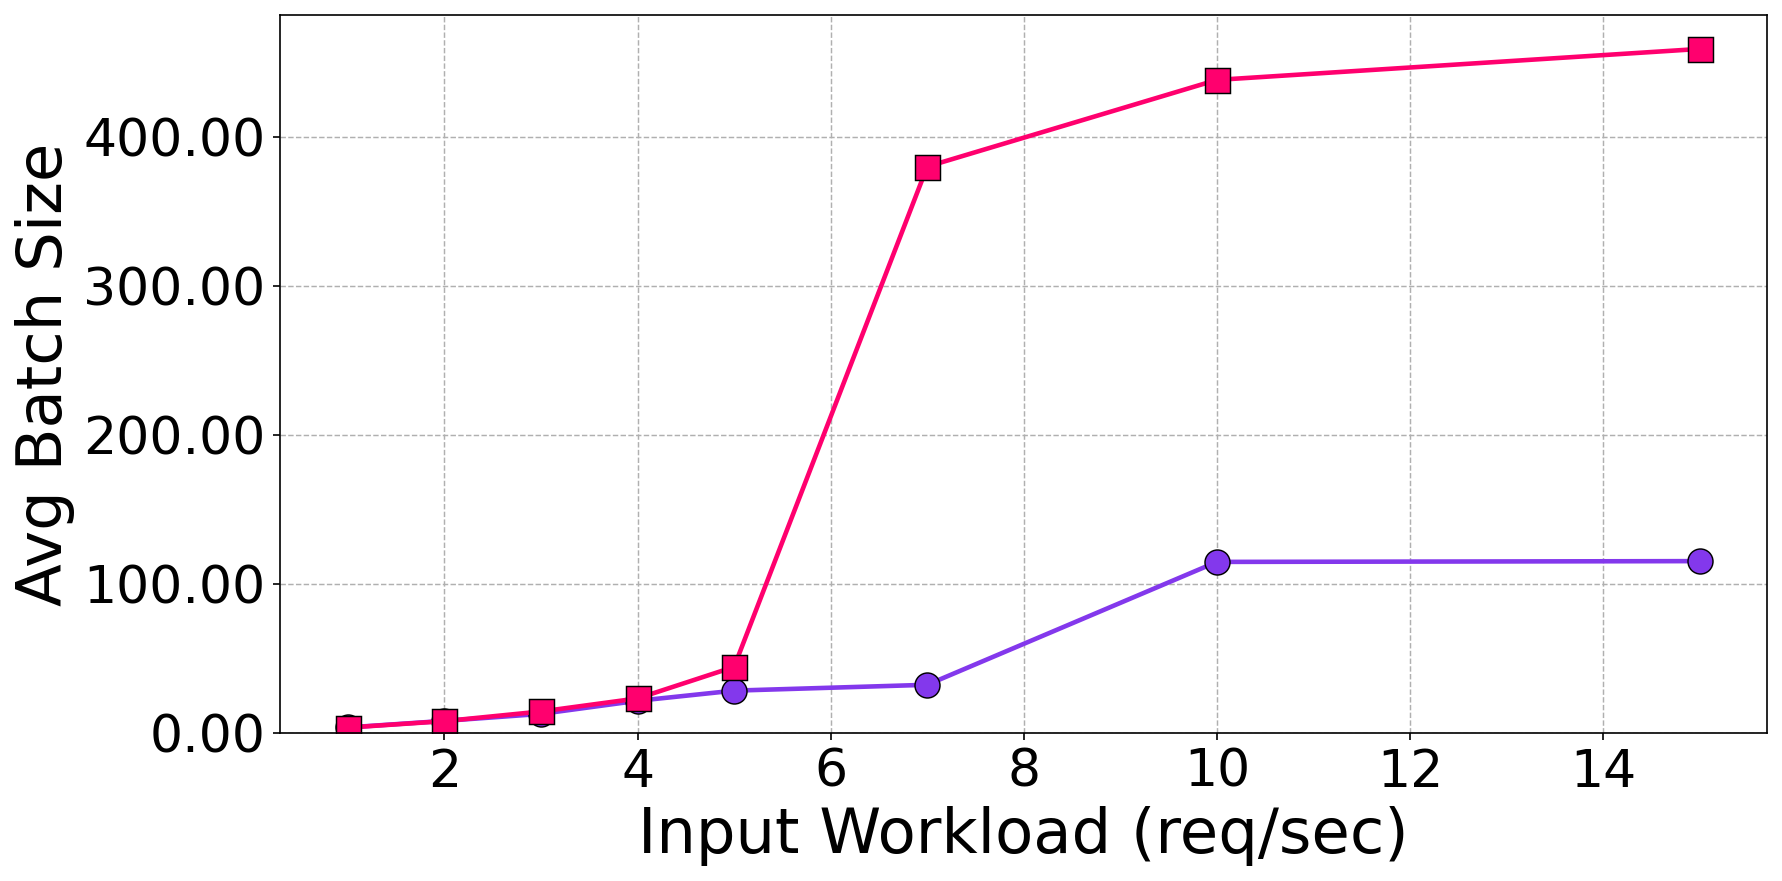
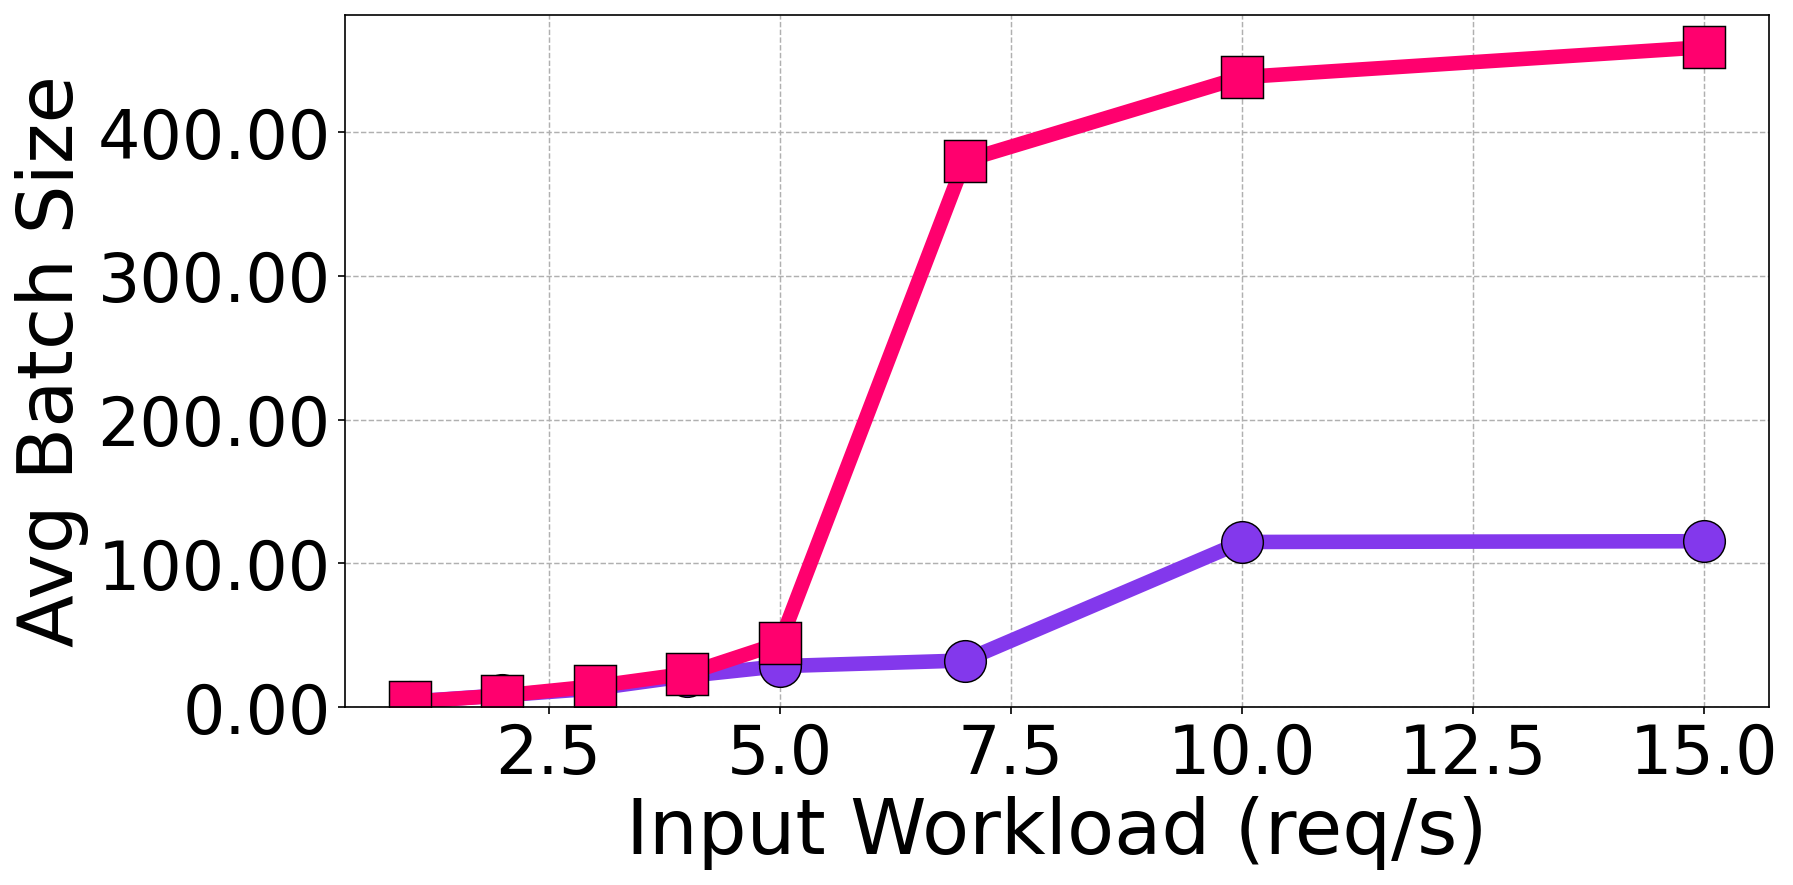
req-per-sec-ablation

diff --git a/code/vllm/req_per_sec_logs_ablation/plot.py b/code/vllm/req_per_sec_logs_ablation/plot.py
@@ -112,7 +112,7 @@ for path in log_files:
     if policy == "chunked_hash_tree_heuristic":
         continue
     if policy == "chunked_hash_tree":
-        policy = "Feather (without RL)"
+        policy = "Feather\n(without RL)"
     label = f"{engine}:{policy}"
 
     avg_batch, avg_diff, throughput = parse_log(path)
@@ -183,24 +183,24 @@ def make_plot(metric_key, ylabel, title, outpath):
                 ys,
                 marker=marker,
                 linestyle=linestyle,
-                linewidth=2.2,
-                markersize=12,
+                linewidth=7,
+                markersize=20,
                 markeredgecolor="black",
                 markeredgewidth=0.7,
                 color=color,
                 label=label
             )
 
-    ax.set_xlabel("Input Workload (req/sec)", fontsize=30)
-    ax.set_ylabel(ylabel, fontsize=30)
+    ax.set_xlabel("Input Workload (req/s)", fontsize=37)
+    ax.set_ylabel(ylabel, fontsize=37)
 
-    ax.tick_params(axis="both", labelsize=25)
+    ax.tick_params(axis="both", labelsize=32)
 
     ax.yaxis.set_major_formatter(ticker.FormatStrFormatter('%.2f'))
 
     if metric_key == "throughput":
         ax.legend(
-            fontsize=25,
+            fontsize=28,
             framealpha=0.3,
             ncol=1
         )
@@ -227,7 +227,7 @@ os.makedirs(OUT, exist_ok=True)
 
 make_plot(
     "throughput",
-    "Throughput (toks/s)",
+    "TP (toks/s)",
     "Throughput vs Request Rate",
     os.path.join(OUT, "throughput_vs_rps.png")
 )
